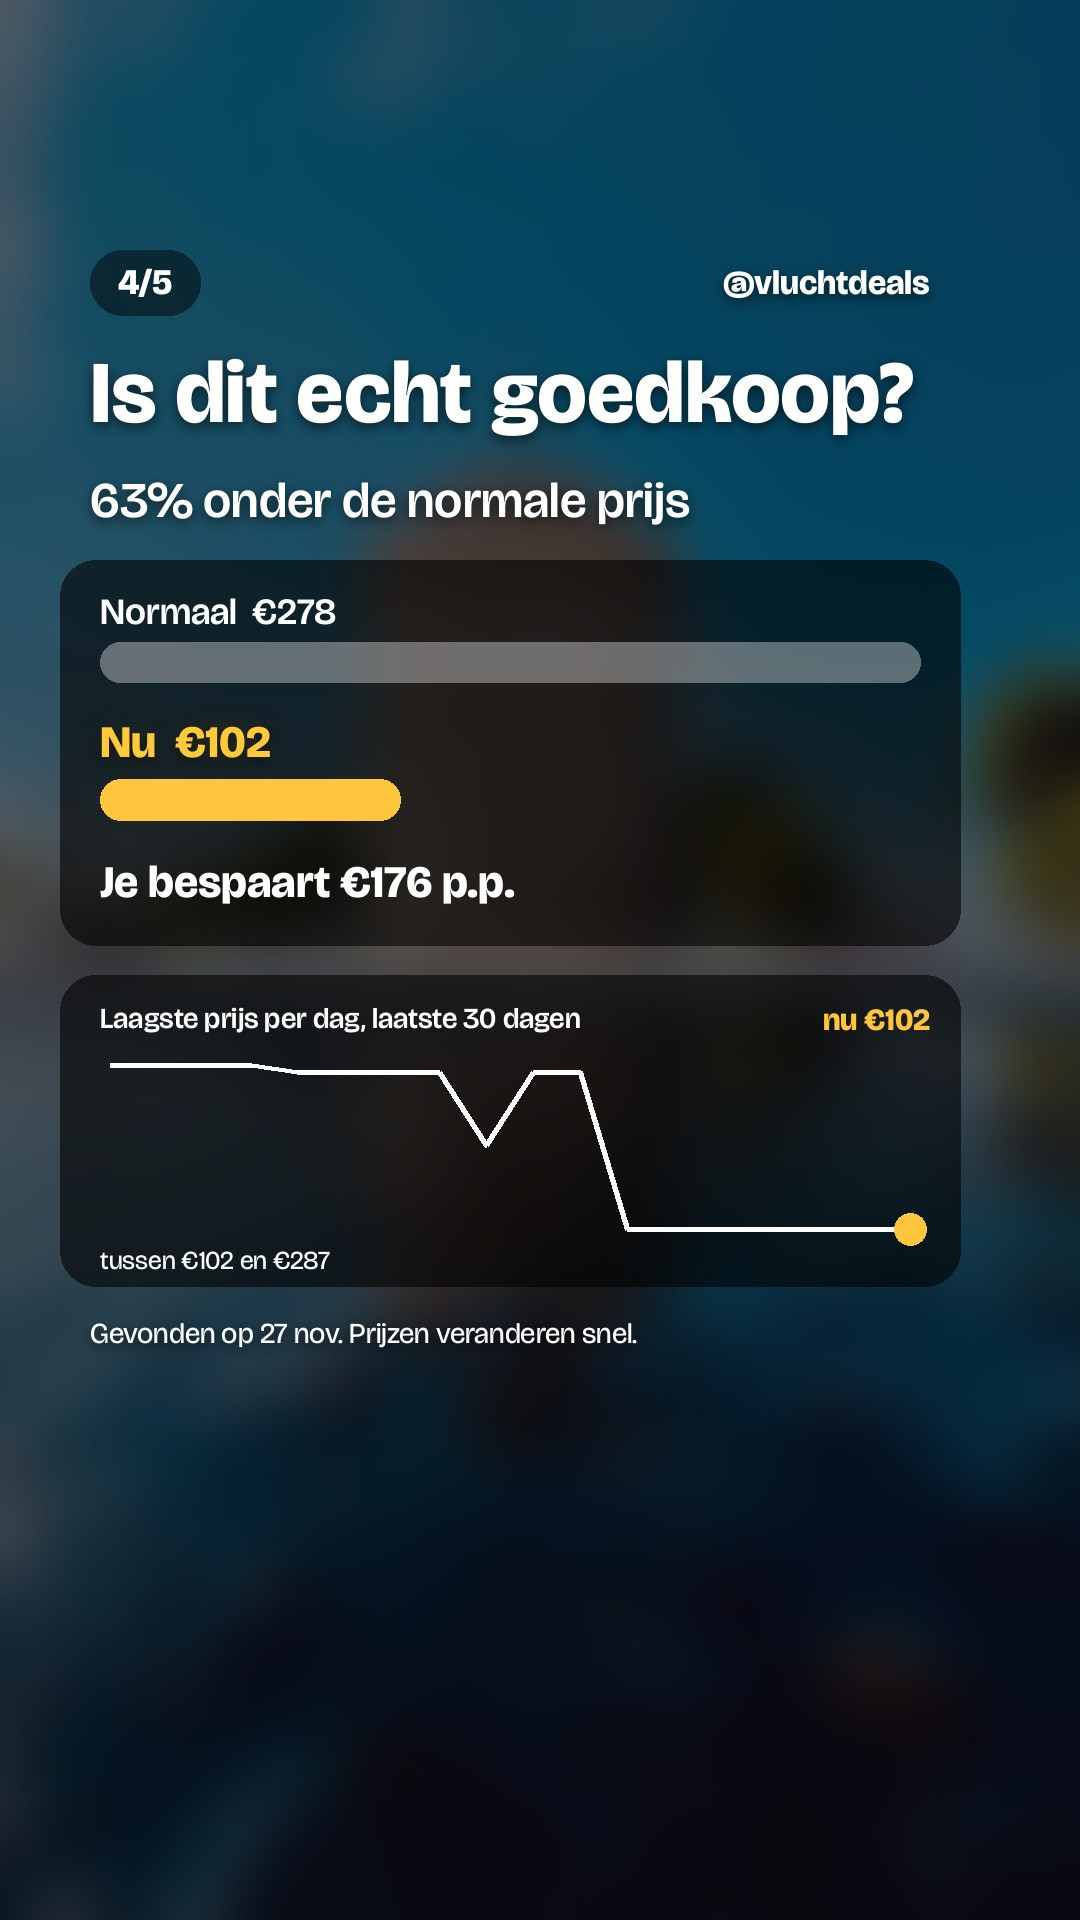
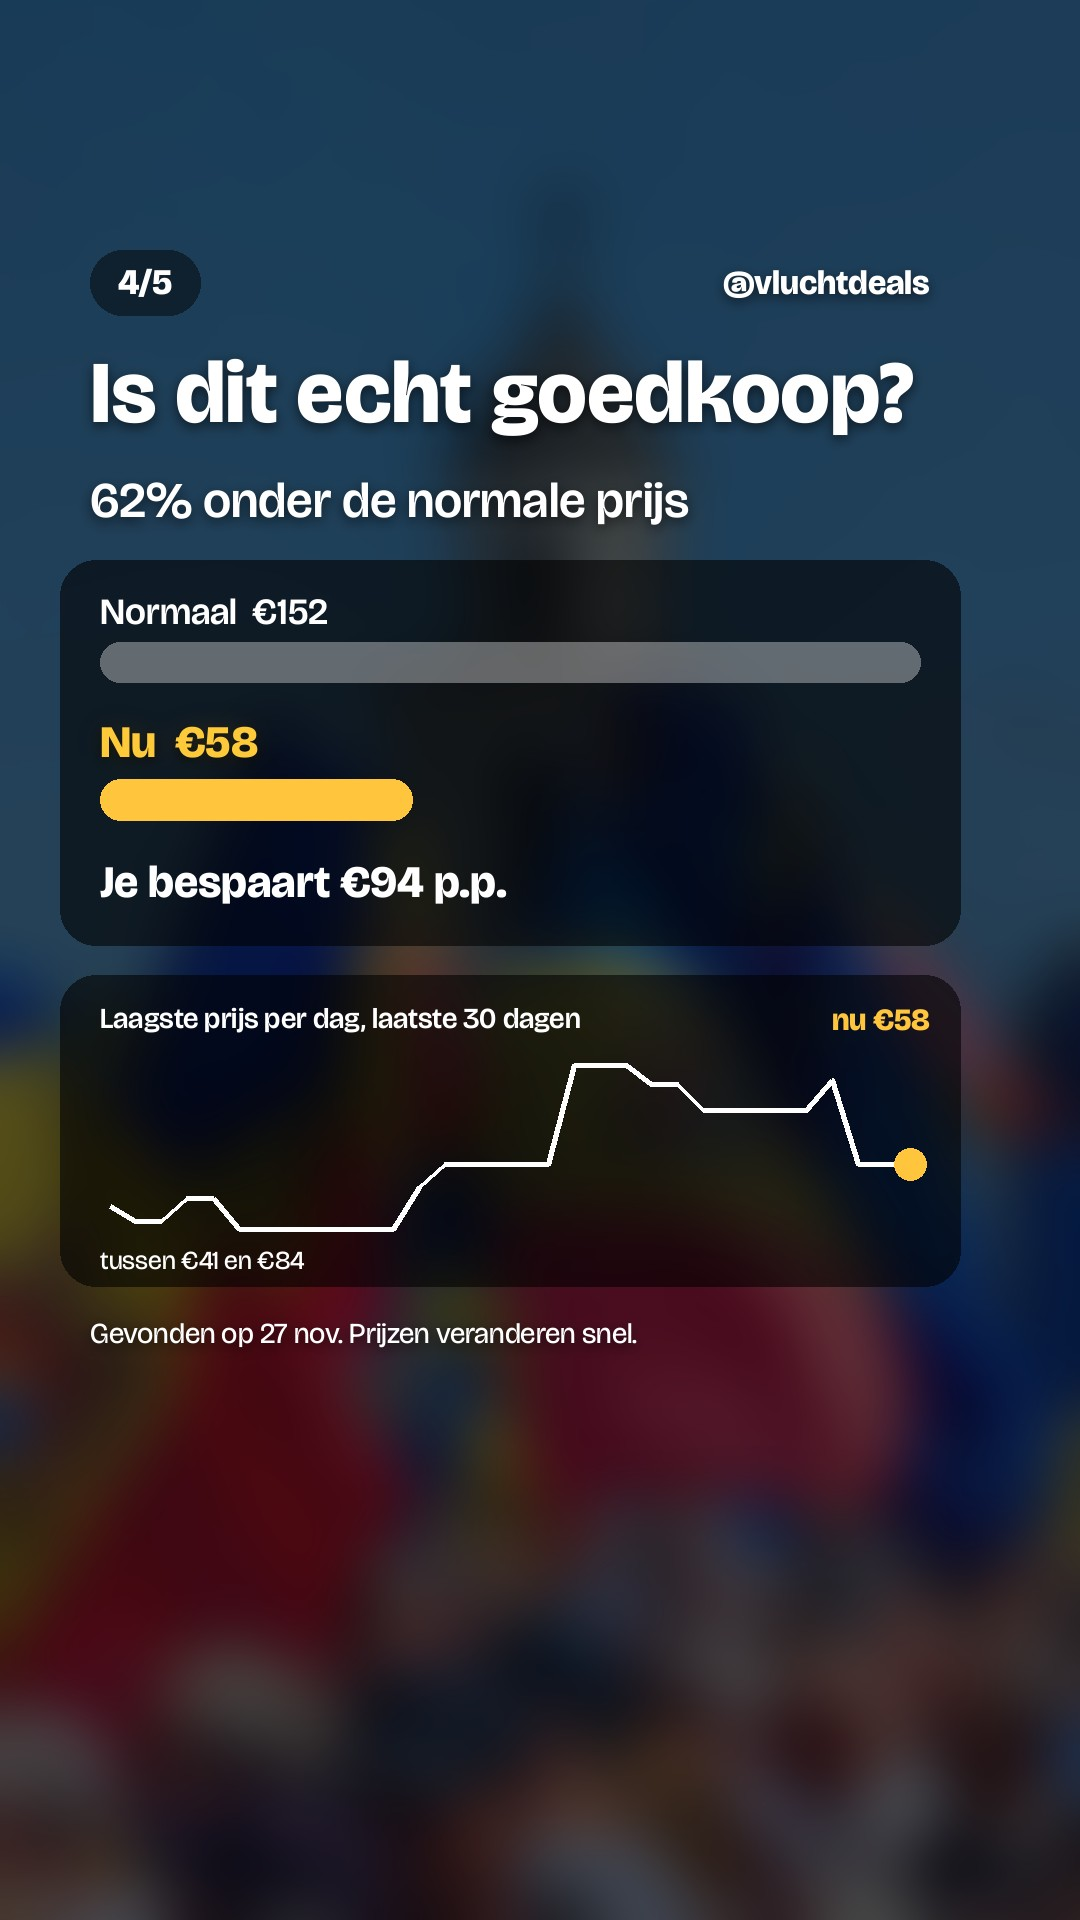
Proefgalerij nieuw ontwerp 2026-11-27

diff --git a/web/proef/index.html b/web/proef/index.html
@@ -1,46 +1,80 @@
-<!doctype html><html lang='nl'><head><meta charset='utf-8'><meta name='robots' content='noindex,nofollow'><meta name='viewport' content='width=device-width,initial-scale=1'><title>Proefgalerij Vluchtdeals</title><style>body{margin:0;background:#0f1216;color:#fff;font-family:Poppins,Arial,sans-serif}main{max-width:1200px;margin:0 auto;padding:24px}h1{font-size:28px}h2{margin:40px 0 8px;font-size:22px}.row{display:flex;gap:14px;overflow-x:auto;padding-bottom:10px}figure{margin:0;flex:0 0 auto}figure img{height:520px;border-radius:12px;display:block}figcaption{font-weight:700;color:#ffca3a;margin-top:6px}pre{white-space:pre-wrap;background:#1b2027;padding:14px;border-radius:10px;font-family:inherit}p.uitleg{color:#c9d1d9}</style></head><body><main><h1>Proefgalerij nieuw ontwerp · 2026-11-27</h1><p class='uitleg'>Geef per nummer kort commentaar in de chat, bijvoorbeeld <b>'2.3: foto past niet'</b>. Alles in één bericht; daarna verwerk ik het in één ronde.</p><h2>1. Dealcarrousel Thessaloniki (Instagram 4:5)</h2><div class='row'><figure><img src='img/1_1.jpg' loading='lazy'><figcaption>1.1</figcaption></figure><figure><img src='img/1_2.jpg' loading='lazy'><figcaption>1.2</figcaption></figure><figure><img src='img/1_3.jpg' loading='lazy'><figcaption>1.3</figcaption></figure><figure><img src='img/1_4.jpg' loading='lazy'><figcaption>1.4</figcaption></figure><figure><img src='img/1_5.jpg' loading='lazy'><figcaption>1.5</figcaption></figure></div><pre>Bijschrift 1:
-Retourtje Thessaloniki voor maar €102 🇬🇷
-
-Zou jij gaan voor €102? Ja of nee 👇
-
-🔗 Boeken via de link in bio
-
-#thessaloniki #griekenland #vluchtdeals #goedkoopvliegen #stedentrip</pre><h2>2. Prijsquiz Thessaloniki (Instagram 4:5)</h2><div class='row'><figure><img src='img/2_1.jpg' loading='lazy'><figcaption>2.1</figcaption></figure><figure><img src='img/2_2.jpg' loading='lazy'><figcaption>2.2</figcaption></figure><figure><img src='img/2_3.jpg' loading='lazy'><figcaption>2.3</figcaption></figure></div><pre>Bijschrift 2:
-Prijsquiz 🧠 Wat kost een retourtje Thessaloniki in januari?
-
-Zet je gok in de reacties: A, B of C 👇
-Het antwoord staat op de laatste slide.
-
-🔗 Deze deal en meer: link in bio
-
-#thessaloniki #griekenland #prijsquiz #vluchtdeals #goedkoopvliegen</pre><h2>3. Dealcarrousel Thessaloniki (TikTok 9:16)</h2><div class='row'><figure><img src='img/3_1.jpg' loading='lazy'><figcaption>3.1</figcaption></figure><figure><img src='img/3_2.jpg' loading='lazy'><figcaption>3.2</figcaption></figure><figure><img src='img/3_3.jpg' loading='lazy'><figcaption>3.3</figcaption></figure><figure><img src='img/3_4.jpg' loading='lazy'><figcaption>3.4</figcaption></figure><figure><img src='img/3_5.jpg' loading='lazy'><figcaption>3.5</figcaption></figure></div><h2>4. Dealcarrousel Kutaisi (Instagram 4:5)</h2><div class='row'><figure><img src='img/4_1.jpg' loading='lazy'><figcaption>4.1</figcaption></figure><figure><img src='img/4_2.jpg' loading='lazy'><figcaption>4.2</figcaption></figure><figure><img src='img/4_3.jpg' loading='lazy'><figcaption>4.3</figcaption></figure><figure><img src='img/4_4.jpg' loading='lazy'><figcaption>4.4</figcaption></figure><figure><img src='img/4_5.jpg' loading='lazy'><figcaption>4.5</figcaption></figure></div><pre>Bijschrift 4:
-Zin in Kutaisi? Nu €212 retour 🇬🇪
+<!doctype html><html lang='nl'><head><meta charset='utf-8'><meta name='robots' content='noindex,nofollow'><meta name='viewport' content='width=device-width,initial-scale=1'><title>Proefgalerij Vluchtdeals</title><style>body{margin:0;background:#0f1216;color:#fff;font-family:Poppins,Arial,sans-serif}main{max-width:1200px;margin:0 auto;padding:24px}h1{font-size:28px}h2{margin:40px 0 8px;font-size:22px}.row{display:flex;gap:14px;overflow-x:auto;padding-bottom:10px}figure{margin:0;flex:0 0 auto}figure img{height:520px;border-radius:12px;display:block}figcaption{font-weight:700;color:#ffca3a;margin-top:6px}pre{white-space:pre-wrap;background:#1b2027;padding:14px;border-radius:10px;font-family:inherit}p.uitleg{color:#c9d1d9}</style></head><body><main><h1>Proefgalerij nieuw ontwerp · 2026-11-27</h1><p class='uitleg'>Geef per nummer kort commentaar in de chat, bijvoorbeeld <b>'2.3: foto past niet'</b>. Alles in één bericht; daarna verwerk ik het in één ronde.</p><h2>1. Dealcarrousel Chisinau (Instagram 4:5)</h2><div class='row'><figure><img src='img/1_1.jpg' loading='lazy'><figcaption>1.1</figcaption></figure><figure><img src='img/1_2.jpg' loading='lazy'><figcaption>1.2</figcaption></figure><figure><img src='img/1_3.jpg' loading='lazy'><figcaption>1.3</figcaption></figure><figure><img src='img/1_4.jpg' loading='lazy'><figcaption>1.4</figcaption></figure><figure><img src='img/1_5.jpg' loading='lazy'><figcaption>1.5</figcaption></figure></div><pre>Bijschrift 1:
+Deze is goed: Chisinau voor €58 retour
 
 Stuur dit naar degene met wie je dit moet boeken 👀
 
 🔗 Boeken via de link in bio
 
-#kutaisi #georgie #vluchtdeals #goedkoopvliegen #stedentrip</pre><h2>5. Prijsquiz Kutaisi (Instagram 4:5)</h2><div class='row'><figure><img src='img/5_1.jpg' loading='lazy'><figcaption>5.1</figcaption></figure><figure><img src='img/5_2.jpg' loading='lazy'><figcaption>5.2</figcaption></figure><figure><img src='img/5_3.jpg' loading='lazy'><figcaption>5.3</figcaption></figure></div><pre>Bijschrift 5:
-Prijsquiz 🧠 Wat kost een retourtje Kutaisi in februari?
+#chisinau #moldavie #vluchtdeals #goedkoopvliegen #stedentrip</pre><h2>2. Prijsquiz Chisinau (Instagram 4:5)</h2><div class='row'><figure><img src='img/2_1.jpg' loading='lazy'><figcaption>2.1</figcaption></figure><figure><img src='img/2_2.jpg' loading='lazy'><figcaption>2.2</figcaption></figure><figure><img src='img/2_3.jpg' loading='lazy'><figcaption>2.3</figcaption></figure></div><pre>Bijschrift 2:
+Prijsquiz 🧠 Wat kost een retourtje Chisinau in januari?
 
 Zet je gok in de reacties: A, B of C 👇
 Het antwoord staat op de laatste slide.
 
 🔗 Deze deal en meer: link in bio
 
-#kutaisi #georgie #prijsquiz #vluchtdeals #goedkoopvliegen</pre><h2>6. Dealcarrousel Dublin (Instagram 4:5)</h2><div class='row'><figure><img src='img/6_1.jpg' loading='lazy'><figcaption>6.1</figcaption></figure><figure><img src='img/6_2.jpg' loading='lazy'><figcaption>6.2</figcaption></figure><figure><img src='img/6_3.jpg' loading='lazy'><figcaption>6.3</figcaption></figure><figure><img src='img/6_4.jpg' loading='lazy'><figcaption>6.4</figcaption></figure><figure><img src='img/6_5.jpg' loading='lazy'><figcaption>6.5</figcaption></figure></div><pre>Bijschrift 6:
-🇮🇪 Dublin, heen en terug, €58
+#chisinau #moldavie #prijsquiz #vluchtdeals #goedkoopvliegen</pre><h2>3. Dealcarrousel Chisinau (TikTok 9:16)</h2><div class='row'><figure><img src='img/3_1.jpg' loading='lazy'><figcaption>3.1</figcaption></figure><figure><img src='img/3_2.jpg' loading='lazy'><figcaption>3.2</figcaption></figure><figure><img src='img/3_3.jpg' loading='lazy'><figcaption>3.3</figcaption></figure><figure><img src='img/3_4.jpg' loading='lazy'><figcaption>3.4</figcaption></figure><figure><img src='img/3_5.jpg' loading='lazy'><figcaption>3.5</figcaption></figure></div><h2>4. Dealcarrousel Zagreb (Instagram 4:5)</h2><div class='row'><figure><img src='img/4_1.jpg' loading='lazy'><figcaption>4.1</figcaption></figure><figure><img src='img/4_2.jpg' loading='lazy'><figcaption>4.2</figcaption></figure><figure><img src='img/4_3.jpg' loading='lazy'><figcaption>4.3</figcaption></figure><figure><img src='img/4_4.jpg' loading='lazy'><figcaption>4.4</figcaption></figure><figure><img src='img/4_5.jpg' loading='lazy'><figcaption>4.5</figcaption></figure></div><pre>Bijschrift 4:
+Deze is goed: Zagreb voor €125 retour
 
-Stuur dit naar degene met wie je dit moet boeken 👀
+Wie neem jij mee naar Zagreb? Tag diegene 👇
 
 🔗 Boeken via de link in bio
 
-#dublin #ierland #vluchtdeals #goedkoopvliegen #stedentrip</pre><h2>7. Prijsquiz Dublin (Instagram 4:5)</h2><div class='row'><figure><img src='img/7_1.jpg' loading='lazy'><figcaption>7.1</figcaption></figure><figure><img src='img/7_2.jpg' loading='lazy'><figcaption>7.2</figcaption></figure><figure><img src='img/7_3.jpg' loading='lazy'><figcaption>7.3</figcaption></figure></div><pre>Bijschrift 7:
-Prijsquiz 🧠 Wat kost een retourtje Dublin in april?
+#zagreb #kroatie #vluchtdeals #goedkoopvliegen #stedentrip</pre><h2>5. Prijsquiz Zagreb (Instagram 4:5)</h2><div class='row'><figure><img src='img/5_1.jpg' loading='lazy'><figcaption>5.1</figcaption></figure><figure><img src='img/5_2.jpg' loading='lazy'><figcaption>5.2</figcaption></figure><figure><img src='img/5_3.jpg' loading='lazy'><figcaption>5.3</figcaption></figure></div><pre>Bijschrift 5:
+Prijsquiz 🧠 Wat kost een retourtje Zagreb in december?
 
 Zet je gok in de reacties: A, B of C 👇
 Het antwoord staat op de laatste slide.
 
 🔗 Deze deal en meer: link in bio
 
-#dublin #ierland #prijsquiz #vluchtdeals #goedkoopvliegen</pre></main></body></html>
+#zagreb #kroatie #prijsquiz #vluchtdeals #goedkoopvliegen</pre><h2>6. Dealcarrousel Tokio (Instagram 4:5)</h2><div class='row'><figure><img src='img/6_1.jpg' loading='lazy'><figcaption>6.1</figcaption></figure><figure><img src='img/6_2.jpg' loading='lazy'><figcaption>6.2</figcaption></figure><figure><img src='img/6_3.jpg' loading='lazy'><figcaption>6.3</figcaption></figure><figure><img src='img/6_4.jpg' loading='lazy'><figcaption>6.4</figcaption></figure><figure><img src='img/6_5.jpg' loading='lazy'><figcaption>6.5</figcaption></figure></div><pre>Bijschrift 6:
+Retourtje Tokio voor maar €710 🇯🇵
+
+Zou jij gaan voor €710? Ja of nee 👇
+
+🔗 Boeken via de link in bio
+
+#tokio #japan #vluchtdeals #goedkoopvliegen #stedentrip</pre><h2>7. Prijsquiz Tokio (Instagram 4:5)</h2><div class='row'><figure><img src='img/7_1.jpg' loading='lazy'><figcaption>7.1</figcaption></figure><figure><img src='img/7_2.jpg' loading='lazy'><figcaption>7.2</figcaption></figure><figure><img src='img/7_3.jpg' loading='lazy'><figcaption>7.3</figcaption></figure></div><pre>Bijschrift 7:
+Prijsquiz 🧠 Wat kost een retourtje Tokio in januari?
+
+Zet je gok in de reacties: A, B of C 👇
+Het antwoord staat op de laatste slide.
+
+🔗 Deze deal en meer: link in bio
+
+#tokio #japan #prijsquiz #vluchtdeals #goedkoopvliegen</pre><h2>8. Merkpost: zo werkt het (vastzetten)</h2><div class='row'><figure><img src='img/8_1.jpg' loading='lazy'><figcaption>8.1</figcaption></figure><figure><img src='img/8_2.jpg' loading='lazy'><figcaption>8.2</figcaption></figure><figure><img src='img/8_3.jpg' loading='lazy'><figcaption>8.3</figcaption></figure><figure><img src='img/8_4.jpg' loading='lazy'><figcaption>8.4</figcaption></figure></div><pre>Bijschrift 8:
+Nieuw hier? Zo werkt Vluchtdeals ✈
+
+Elke dag vluchten die veel goedkoper zijn dan normaal, vanaf Amsterdam, Eindhoven, Brussel en Düsseldorf. Gratis, en je boekt direct bij de aanbieder.
+
+Welke bestemming wil jij als eerste voorbij zien komen? 👇
+
+#vluchtdeals #goedkoopvliegen #reizen #vakantie #stedentrip</pre><h2>9. Merkpost: zo werkt het (TikTok 9:16)</h2><div class='row'><figure><img src='img/9_1.jpg' loading='lazy'><figcaption>9.1</figcaption></figure><figure><img src='img/9_2.jpg' loading='lazy'><figcaption>9.2</figcaption></figure><figure><img src='img/9_3.jpg' loading='lazy'><figcaption>9.3</figcaption></figure><figure><img src='img/9_4.jpg' loading='lazy'><figcaption>9.4</figcaption></figure></div><h2>10. Merkpost: deze week gevonden (zondag; nu met de deals van vandaag als voorbeeld)</h2><div class='row'><figure><img src='img/10_1.jpg' loading='lazy'><figcaption>10.1</figcaption></figure><figure><img src='img/10_2.jpg' loading='lazy'><figcaption>10.2</figcaption></figure></div><pre>Bijschrift 10:
+Deze week vonden we 13 bestemmingen met een deal, gemiddeld 43% onder de normale prijs. Nummer 1: Chisinau voor €58.
+
+Welke had jij geboekt? 👇
+
+🔗 Nieuwe deals: link in bio
+
+#vluchtdeals #goedkoopvliegen #reizen #vakantie #weekoverzicht</pre><h2>11. Merkpost: veelgestelde vraag 1</h2><div class='row'><figure><img src='img/11_1.jpg' loading='lazy'><figcaption>11.1</figcaption></figure><figure><img src='img/11_2.jpg' loading='lazy'><figcaption>11.2</figcaption></figure></div><pre>Bijschrift 11:
+Is Vluchtdeals echt gratis? 🤔 Swipe voor het antwoord.
+
+Nog een vraag? Zet hem in de reacties 👇
+
+#vluchtdeals #goedkoopvliegen #reizen #reistips #vakantie</pre><h2>12. Merkpost: veelgestelde vraag 2</h2><div class='row'><figure><img src='img/12_1.jpg' loading='lazy'><figcaption>12.1</figcaption></figure><figure><img src='img/12_2.jpg' loading='lazy'><figcaption>12.2</figcaption></figure></div><pre>Bijschrift 12:
+Waarom zijn deze vluchten zo goedkoop? 🤔 Swipe voor het antwoord.
+
+Nog een vraag? Zet hem in de reacties 👇
+
+#vluchtdeals #goedkoopvliegen #reizen #reistips #vakantie</pre><h2>13. Merkpost: veelgestelde vraag 3</h2><div class='row'><figure><img src='img/13_1.jpg' loading='lazy'><figcaption>13.1</figcaption></figure><figure><img src='img/13_2.jpg' loading='lazy'><figcaption>13.2</figcaption></figure></div><pre>Bijschrift 13:
+Moet ik snel boeken? 🤔 Swipe voor het antwoord.
+
+Nog een vraag? Zet hem in de reacties 👇
+
+#vluchtdeals #goedkoopvliegen #reizen #reistips #vakantie</pre><h2>14. Merkpost: veelgestelde vraag 4</h2><div class='row'><figure><img src='img/14_1.jpg' loading='lazy'><figcaption>14.1</figcaption></figure><figure><img src='img/14_2.jpg' loading='lazy'><figcaption>14.2</figcaption></figure></div><pre>Bijschrift 14:
+Vanaf welke luchthavens? 🤔 Swipe voor het antwoord.
+
+Nog een vraag? Zet hem in de reacties 👇
+
+#vluchtdeals #goedkoopvliegen #reizen #reistips #vakantie</pre></main></body></html>
